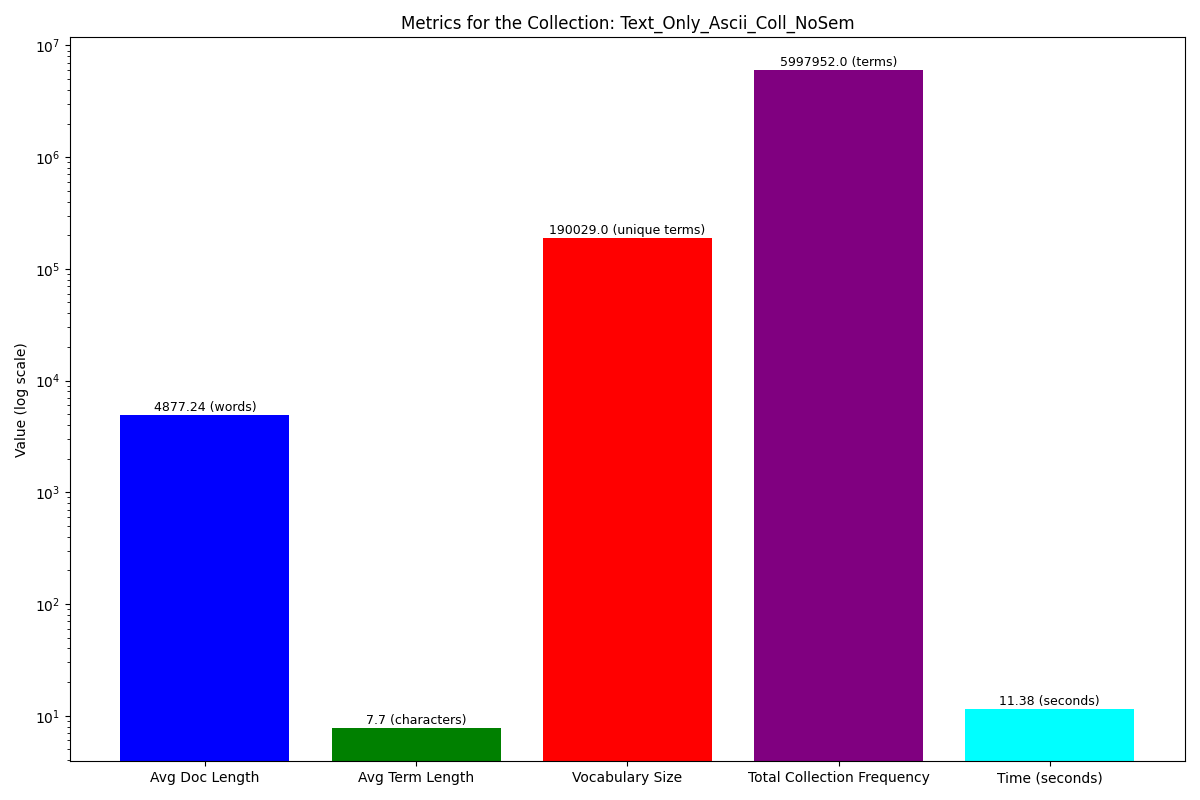
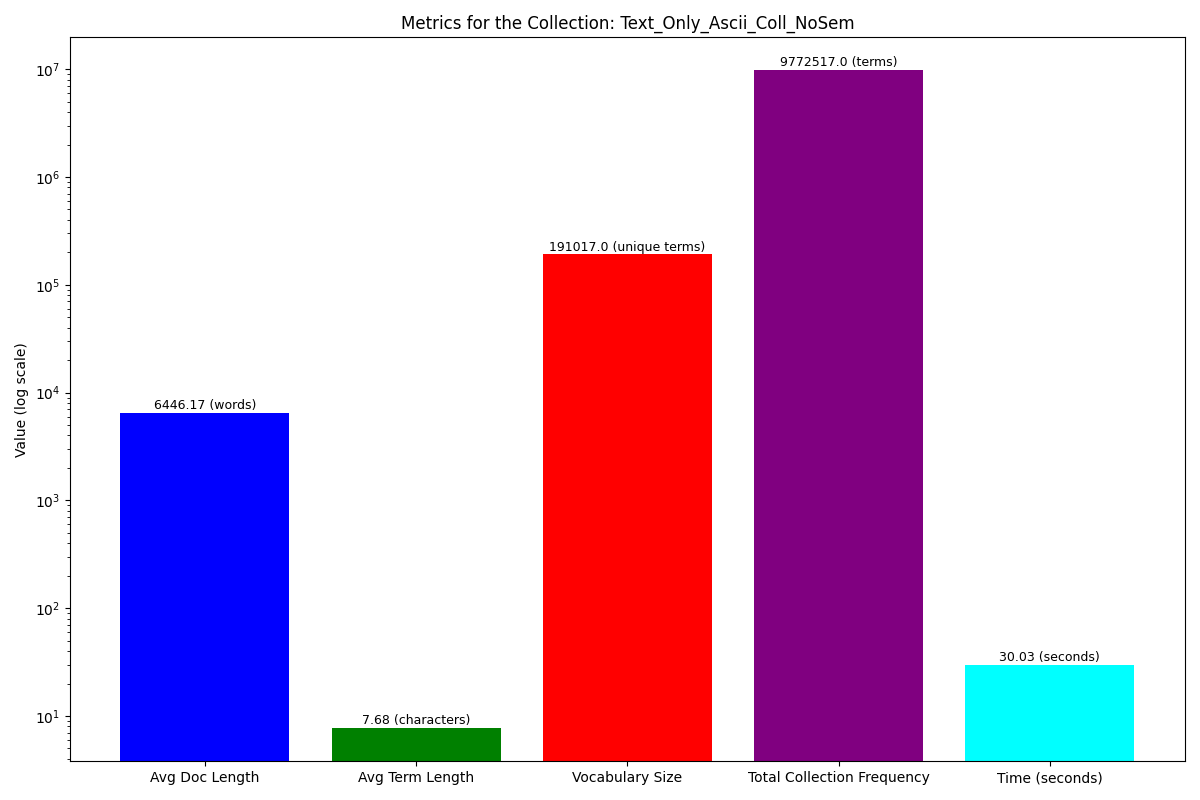
add : index with preprocesscpu

diff --git a/practice3/src/generate_index.py b/practice3/src/generate_index.py
@@ -1,4 +1,7 @@
 from collections import  Counter
+from concurrent.futures import ProcessPoolExecutor, as_completed
+import time
+
 from nltk import PorterStemmer, word_tokenize
 import re
 from tqdm import tqdm
@@ -11,10 +14,8 @@ from models.PostingListUnit import PostingListUnit
 from pathlib import Path
 stemmer = PorterStemmer()
 
-
-
-def pre_processing(content : str, mode="basic") -> list:
-    stop_words = Path("../../stopwords/stop-words-english4.txt").read_text(encoding="utf-8")
+def pre_processing(content : str, mode="stopwords_stemmer") -> list:
+    stop_words = set(Path("../../stopwords/stop-words-english4.txt").read_text(encoding="utf-8"))
     if mode == "stopwords_stemmer":
         return [stemmer.stem(token)
                 for token in word_tokenize(content)
@@ -26,30 +27,54 @@ def pre_processing(content : str, mode="basic") -> list:
     else:
         raise ValueError("Invalid mode provided!")
 
+def index_document(args):
+    """Helper function to handle the parallel indexing of a document."""
+    doc_id, tokens, index = args
+    
+    document = Document(doc_id, " ".join(tokens))
+    index.collection.add_document(document)
+    cf = Counter(tokens)
+    for term, freq in cf.items():
+        unit = PostingListUnit(doc_id, freq)
+        if term not in index.posting_lists:
+            index.posting_lists[term] = PostingList(term)
+        index.posting_lists[term].add_posting(unit)
+    return index
+
+def preprocess_document(args):
+    """Helper function to handle the parallel processing of documents."""
+    doc_id, content, mode = args
+    return (doc_id, pre_processing(content, mode))
+
 def generate_index_oop(doc, mode) -> Index:
     index = Index()
     doc_pattern = re.compile(r'<doc><docno>(.*?)</docno>(.*?)</doc>', re.DOTALL)
-
-    # Mesurez le temps de prétraitement
+    
+    # Extract all document patterns
+    doc_matches = doc_pattern.findall(doc)
+    
+    # Measure preprocessing time with parallel processing and tqdm for progress
     start_preprocessing_time_ns = time_ns()
-    processed_contents = [(doc_id, pre_processing(content, mode)) 
-                      for doc_id, content in tqdm(doc_pattern.findall(doc), desc="Preprocessing contents...", colour="blue")]
+    processed_contents = []
+    with ProcessPoolExecutor() as executor:
+        # Using submit for preprocessing
+        futures = [executor.submit(preprocess_document, (match[0], match[1], mode)) for match in doc_matches]
+        for future in tqdm(as_completed(futures), total=len(futures), desc="Preprocessing documents...", colour="blue"):
+            processed_contents.append(future.result())
     index.preprocessing_time_in_ns = time_ns() - start_preprocessing_time_ns
 
-    # Mesurez le temps d'indexation
+    # Measure indexing time with parallel processing
     start_indexing_time_ns = time_ns()
-    for doc_id, tokens in tqdm(processed_contents, desc="indexing files...", colour="green"):
-        document = Document(doc_id, " ".join(tokens))
-        index.collection.add_document(document)
-        cf = Counter(tokens)
-        for term, freq in cf.items():
-            unit = PostingListUnit(doc_id, freq)
-            if index.posting_lists.get(term) is None:
-                index.posting_lists[term] = PostingList(term)
-            index.posting_lists[term].add_posting(unit)
-    
+    with ProcessPoolExecutor() as executor:
+        # Using submit for indexing
+        futures = [executor.submit(index_document, (doc_id, tokens, index)) for doc_id, tokens in processed_contents]
+        for future in tqdm(as_completed(futures), total=len(futures), desc="indexing files...", colour="green"):
+            # Here, we're getting back the indexed data from each process
+            # In this specific case, we don't need to do anything with the results
+            # because the index object is shared and modified in-place.
+            future.result()
     index.indexing_time_in_ns = time_ns() - start_indexing_time_ns
-    
+
     return index
 
 def get_index_statistics(index):

diff --git a/practice3/src/main.py b/practice3/src/main.py
@@ -78,7 +78,7 @@ def main() -> None:
     # run_exercice(args.exercise, index, query)
     # run_exercice(args.exercise)
     
-    collection_statistics(mode="basic", chartname="basic")
+    collection_statistics(mode="stopwords_stemmer", chartname="stopwords_stemmer")
 
 
 
